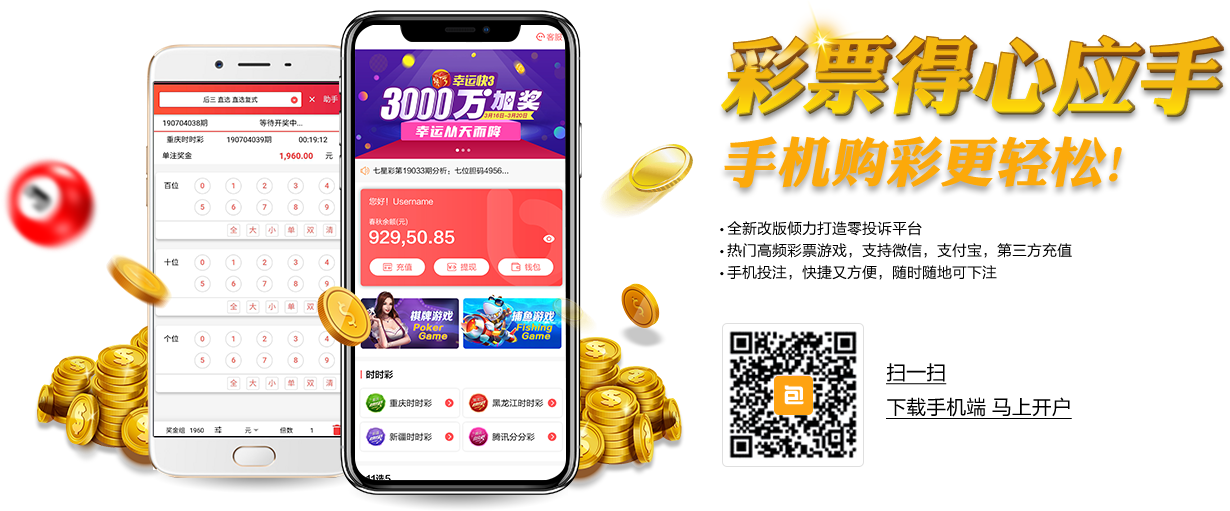
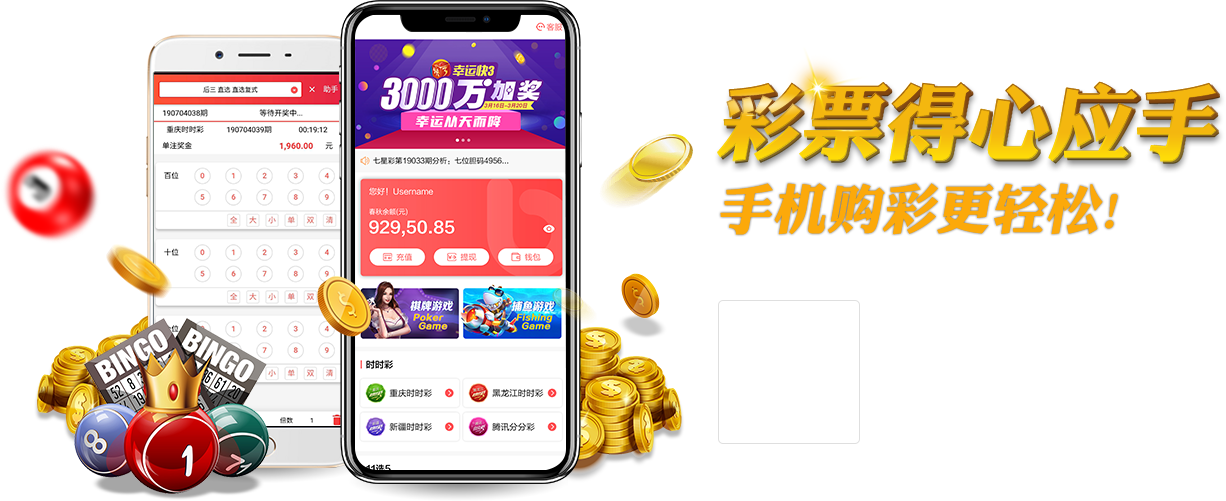
修复bug

diff --git a/src/components/public/record_details.vue b/src/components/public/record_details.vue
@@ -10,27 +10,11 @@
       <!-- 投注记录详情 -->
       <div class="content" v-if="!isTraces">
         <div class="openball-result" v-if="detailData.open_number && detailData.open_number.length">
-          <template v-if="detailData.series_id ==='lotto'">
             <span
               class="item"
-              v-for="(item, index) in detailData.open_number.split(' ')"
+              v-for="(item, index) in detailData.open_number.split(lotteryLists[currentLottery.series_id]['encode_splitter'] || '')"
               :key="index"
             >{{item}}</span>
-          </template>
-          <template v-else-if="detailData.series_id ==='pk10'">
-            <span
-              class="item"
-              v-for="(item, index) in detailData.open_number.split(',')"
-              :key="index"
-            >{{item}}</span>
-          </template>
-          <template v-else>
-            <span
-              class="item"
-              v-for="(item, index) in detailData.open_number.split('')"
-              :key="index"
-            >{{item}}</span>
-          </template>
         </div>
         <div class="table-detail">
           <table width="100%" class="table-detail">
@@ -263,7 +247,7 @@ export default {
     }
   },
   computed: {
-    ...mapGetters(['currentLottery', 'lotteryAll']),
+    ...mapGetters(['currentLottery', 'lotteryAll', 'lotteryLists']),
     // 是否是追号
     isTraces() {
       return this.detailData.win_stop !== undefined

diff --git a/src/views/game/GameMethod.vue b/src/views/game/GameMethod.vue
@@ -102,24 +102,10 @@
                       <td class="td"><span class="number">{{item.issue_no}} 期</span></td>
                       <td class="td">
                         <span class="balls">
-                          <template v-if="currentLottery.series_id === 'lotto'">
                             <i
                             class="i curr"
-                            v-for="(num, numIndex) in item.code.split(' ')"
+                            v-for="(num, numIndex) in item.code.split(lotteryLists[currentLottery.series_id]['encode_splitter'] || '')"
                             :key="numIndex">{{num}}</i>
-                          </template>
-                           <template v-else-if="currentLottery.series_id === 'pk10'">
-                            <i
-                            class="i curr"
-                            v-for="(num, numIndex) in item.code.split(',')"
-                            :key="numIndex">{{num}}</i>
-                          </template>
-                          <template v-else>
-                            <i
-                            class="i curr"
-                            v-for="(num, numIndex) in item.code.split('')"
-                            :key="numIndex">{{num}}</i>
-                          </template>
                         </span>
                       </td>
                     </tr>

diff --git a/src/views/game/GameIssue.vue b/src/views/game/GameIssue.vue
@@ -93,6 +93,7 @@ export default {
   },
   computed: {
     ...mapGetters([
+      'lotteryLists',
       'currentLottery',
       'lotteryAll',
       'issueInfo',
@@ -179,13 +180,8 @@ export default {
             this.$store.commit('currentIssue', data.currentIssue)
             this.$store.commit('issueInfo', data.issueInfo)
             if (data.lastIssue.open_code) {
-              if (this.currentLottery.series_id === 'lotto') {
-                data.lastIssue.open_code = data.lastIssue.open_code.split(' ')
-              } else if (this.currentLottery.series_id === 'pk10') {
-                data.lastIssue.open_code = data.lastIssue.open_code.split(',')
-              } else {
-                data.lastIssue.open_code = data.lastIssue.open_code.split('')
-              }
+              const encodeSplitter = this.lotteryLists[this.currentLottery.series_id]['encode_splitter'] || ''
+              data.lastIssue.open_code = data.lastIssue.open_code.split(encodeSplitter)
               this.lastIssue = data.lastIssue
             } else {
               if (this.currentLottery.series_id === 'pk10') {

diff --git a/src/components/public/download.vue b/src/components/public/download.vue
@@ -1,12 +1,20 @@
 <template>
   <div class="download">
-    <img class="img" src="../../assets/images/new/download_nr_bg.png" alt="">
+    <div class="nr">
+      <img class="img" src="../../assets/images/new/download_nr_bg.png" alt="">
+      <img class="qr-img" :src="qrSrc" alt="二维码">
+    </div>
+    
   </div>
 </template>
 
 <script>
+import { mapGetters } from 'vuex'
 export default {
-  name: 'download'
+  name: 'download',
+  computed: {
+    ...mapGetters(['qrSrc'])
+  }
 }
 </script>
 
@@ -16,7 +24,7 @@ export default {
   background: url('../../assets/images/new/download_bg.jpg') no-repeat center center;
   background-size: cover;
   position: relative;
-  .img{
+  .nr{
     position: absolute;
     width: 1230px;
     height: 511px;
@@ -24,6 +32,18 @@ export default {
     left: 50%;
     top: 50%;
     transform: translate(-50%, -50%);
+    .img{
+      width: 100%;
+      height: 100%;
+    }
+    .qr-img{
+      display: block;
+      position: absolute;
+      width: 144px;
+      height: 144px;
+      right: 367px;
+      bottom: 59px;
+    }
   }
 }
 </style>

diff --git a/src/components/index_new.vue b/src/components/index_new.vue
@@ -119,17 +119,10 @@
                   </div>
                 </div>
                 <div class="middle" v-if="item.official_code">
-                  <template v-if="item.series_id === 'lotto'">
+                  <template v-if="lotteryLists[item.series]">
                     <span
                       class="ball"
-                      v-for="(item, index) in item.official_code.split(' ')"
-                      :key="index"
-                    >{{item}}</span>
-                  </template>
-                  <template v-else>
-                    <span
-                      class="ball"
-                      v-for="(item, index) in item.official_code.split('')"
+                      v-for="(item, index) in item.official_code.split(lotteryLists[item.series]['encode_splitter'] || '')"
                       :key="index"
                     >{{item}}</span>
                   </template>
@@ -283,6 +276,7 @@ export default {
   },
   computed: {
     ...mapGetters([
+      'lotteryLists',
       'showInitNotice',
       'isLogin',
       'banner',

diff --git a/src/views/game/GameSelect.vue b/src/views/game/GameSelect.vue
@@ -460,7 +460,7 @@ export default {
           if (oneKey) {
             this.oneKeyList = order
           } else {
-            if (this.currentLottery.max_profit_bonus/+this.currentOrder.currentCost >= 45) {
+            if (+this.currentCountPrizes/+this.currentOrder.currentCost >= 45) {
               this.$msgbox({
                 title: '投注确认',
                 customClass: 'confirm-bet',
@@ -1524,7 +1524,7 @@ export default {
             h('p', 
             { style: 'text-align: center; font-weight:bold;' }, 
             `总计${this.currentOrder.currentCount}注  总共${this.currentOrder.currentCost}元`),
-            +this.currentLottery.max_profit_bonus/+this.currentOrder.currentCost >= 45 ? 
+            +this.currentCountPrizes/+this.currentOrder.currentCost >= 45 ? 
               h('p', 
                 { style: 'text-align: center; color: #ff7200' }, 
                 '投注包含单挑注单，奖金上限为2万元') : null

diff --git a/src/components/header_new.vue b/src/components/header_new.vue
@@ -111,7 +111,7 @@
               @mouseleave="showSelectLottery = false"
             >
               <div class="title">
-                <span>⑧</span> 选择彩种
+                <span>⑧</span> 彩种推荐
               </div>
               <div
                 class="sub-select"
@@ -181,7 +181,7 @@
                 <router-link class="nav-col" tag="span" to="/active">优惠活动</router-link>
               </el-col>
               <el-col :span="3">
-                <router-link class="nav-col" tag="span" to="/user-trends">走势图标</router-link>
+                <router-link class="nav-col" tag="span" to="/user-trends">走势图表</router-link>
               </el-col>
               <el-col :span="3">
                 <span :class="{'router-link-active' : this.$route.path.includes('/agent-center')}" class="nav-col" @click="preInto(`/agent-center`)" >代理中心</span>

diff --git a/src/lib/config/prizes.js b/src/lib/config/prizes.js
@@ -577,8 +577,9 @@ export default {
       QZU6: { total: 1000, prize: 295, count: 6 },
       QZU6_S: { total: 1000, prize: 295, count: 6 },
       QHHZX: { total: 1000, prize: 600, count: 3 },
+      QZUHZ: { total: 1000, prize: 600, count: 3 },
 
-      QZUHZ: { total: 1000, prize: [590, 295], count: [250, 250] },
+      // QZUHZ: { total: 1000, prize: [590, 295], count: [250, 250] },
 
       QZX2: { total: 1000, prize: 177, count: 1 },
       QZX2_S: { total: 1000, prize: 177, count: 1 },

diff --git a/src/views/game/GameMain.vue b/src/views/game/GameMain.vue
@@ -171,5 +171,5 @@ export default {
 </script>
 
 <style scoped>
-@import "../../assets/css/game.css";
+@import "../../assets/css/game.scss";
 </style>

diff --git a/src/App.vue b/src/App.vue
@@ -25,5 +25,5 @@ export default {
 }
 </script>
 <style>
-@import "./assets/css/base.css";
+@import "./assets/css/base.scss";
 </style>

diff --git a/src/assets/css/variables.scss b/src/assets/css/variables.scss
@@ -1,0 +1,4 @@
+$primary-color: #f73b3b;
+$primary-color-hover: #de1c1c;
+
+$header-btn-color: #ff7777;
